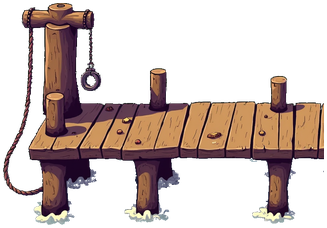
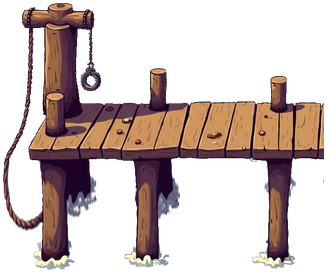
New fish stealer: silver-haired Blackfeet rival angler with a string of salmon
Replaces the white fisherman in assets/sprites/miner.png (same 8-frame layout:
six walk, stand, bend). Each fish he steals now hangs from his hand next to the
three on his cord, and the string resets when he is speared. The old procedural
fishing rod overlay is gone. Re-anchored the miners' pier to the redesigned dock:
deck top at row 108, pilings lengthened so the dock still meets the ground, and
the standing spot moved clear of the hoist post.

diff --git a/claimjumper/index.html b/claimjumper/index.html
@@ -1105,6 +1105,8 @@ function takeFish(m){
   const f = live[0];
   f.dead = true;
   G.taken.push({ x:f.fx, y:f.fy, tx:m.x, s:f.s, t:0 });
+  (m.stolen = m.stolen || []).push(f.s.key); // each stolen fish joins his string
+  if (m.stolen.length > 7) m.stolen.shift();
 }
 function updateMiners(){
   G.minerTimer -= 1;
@@ -1118,7 +1120,7 @@ function updateMiners(){
       // v7.1: was the fixed x=404 -- same G.pierCx-tracking fix as the
       // initial spawn in spawnMiner()/spawnVinegarMiner(), for a miner
       // re-entering after retreating offscreen.
-      m.t -= 1; if (m.t<=0){ m.state='walk'; m.x=G.pierCx+34; }
+      m.t -= 1; if (m.t<=0){ m.state='walk'; m.x=G.pierCx+34; m.stolen=[]; }
     } else if (m.state==='walk'){
       m.x -= (m.type==='vinegar') ? 0.6 : 0.9; // vinegar miner approaches slower (GDD §6.3)
       if (m.x <= m.tx){
@@ -1494,7 +1496,9 @@ function drawMinerPier(){
     // anchorX/anchorY re-measured the same empirical way as the old
     // anchorY=68 fix: the front post's plank surface, which needs to land
     // at WATER_Y to match drawMinerSkin()/drawMinerSprite()'s feet anchor.
-    const anchorX = 100, anchorY = 64;
+    // Re-measured for the redesigned dock (hoist post at its left end): the deck top
+    // is row 108, and the miners stand 150px in so they clear the post.
+    const anchorX = 150, anchorY = 108;
     const scale = 0.21;
     // G.pierCx/pierRot: a small per-wave position+tilt roll (see
     // startWave()), same idea as the tower's. Rotated around the plank's
@@ -2064,9 +2068,22 @@ function drawMiner(m){
         } else {
           ctx.beginPath(); ctx.moveTo(px,py); ctx.lineTo(px-5,py+3); ctx.stroke();
         }
-      } else {
-        ctx.beginPath(); ctx.moveTo(px,py); ctx.lineTo(px-13,py+22); ctx.stroke();
-        ctx.fillStyle = '#7a8a6a'; ctx.fillRect(px-14.5,py+20.5,3,3);
+      } else if (m.stolen && m.stolen.length){
+        // The rival angler already carries three salmon on his cord in the
+        // sprite; every fish he steals hangs from the same hand next to them.
+        const hx = x-15, hy = WATER_Y-30;
+        m.stolen.forEach((key, i) => {
+          const sway = Math.sin(G.t*0.12 + i*1.7) * 0.12;
+          ctx.save();
+          ctx.translate(hx - 6 - i*3.4, hy + (i%2)*2);
+          ctx.rotate(sway);
+          ctx.strokeStyle = PAL.ink; ctx.lineWidth = 0.6;
+          ctx.beginPath(); ctx.moveTo(0,0); ctx.lineTo(0,6); ctx.stroke();
+          ctx.translate(0, 6 + 7);
+          ctx.rotate(-Math.PI/2);
+          drawFishShape(0, 0, key, 1, 0.6);
+          ctx.restore();
+        });
       }
     }
     return;
